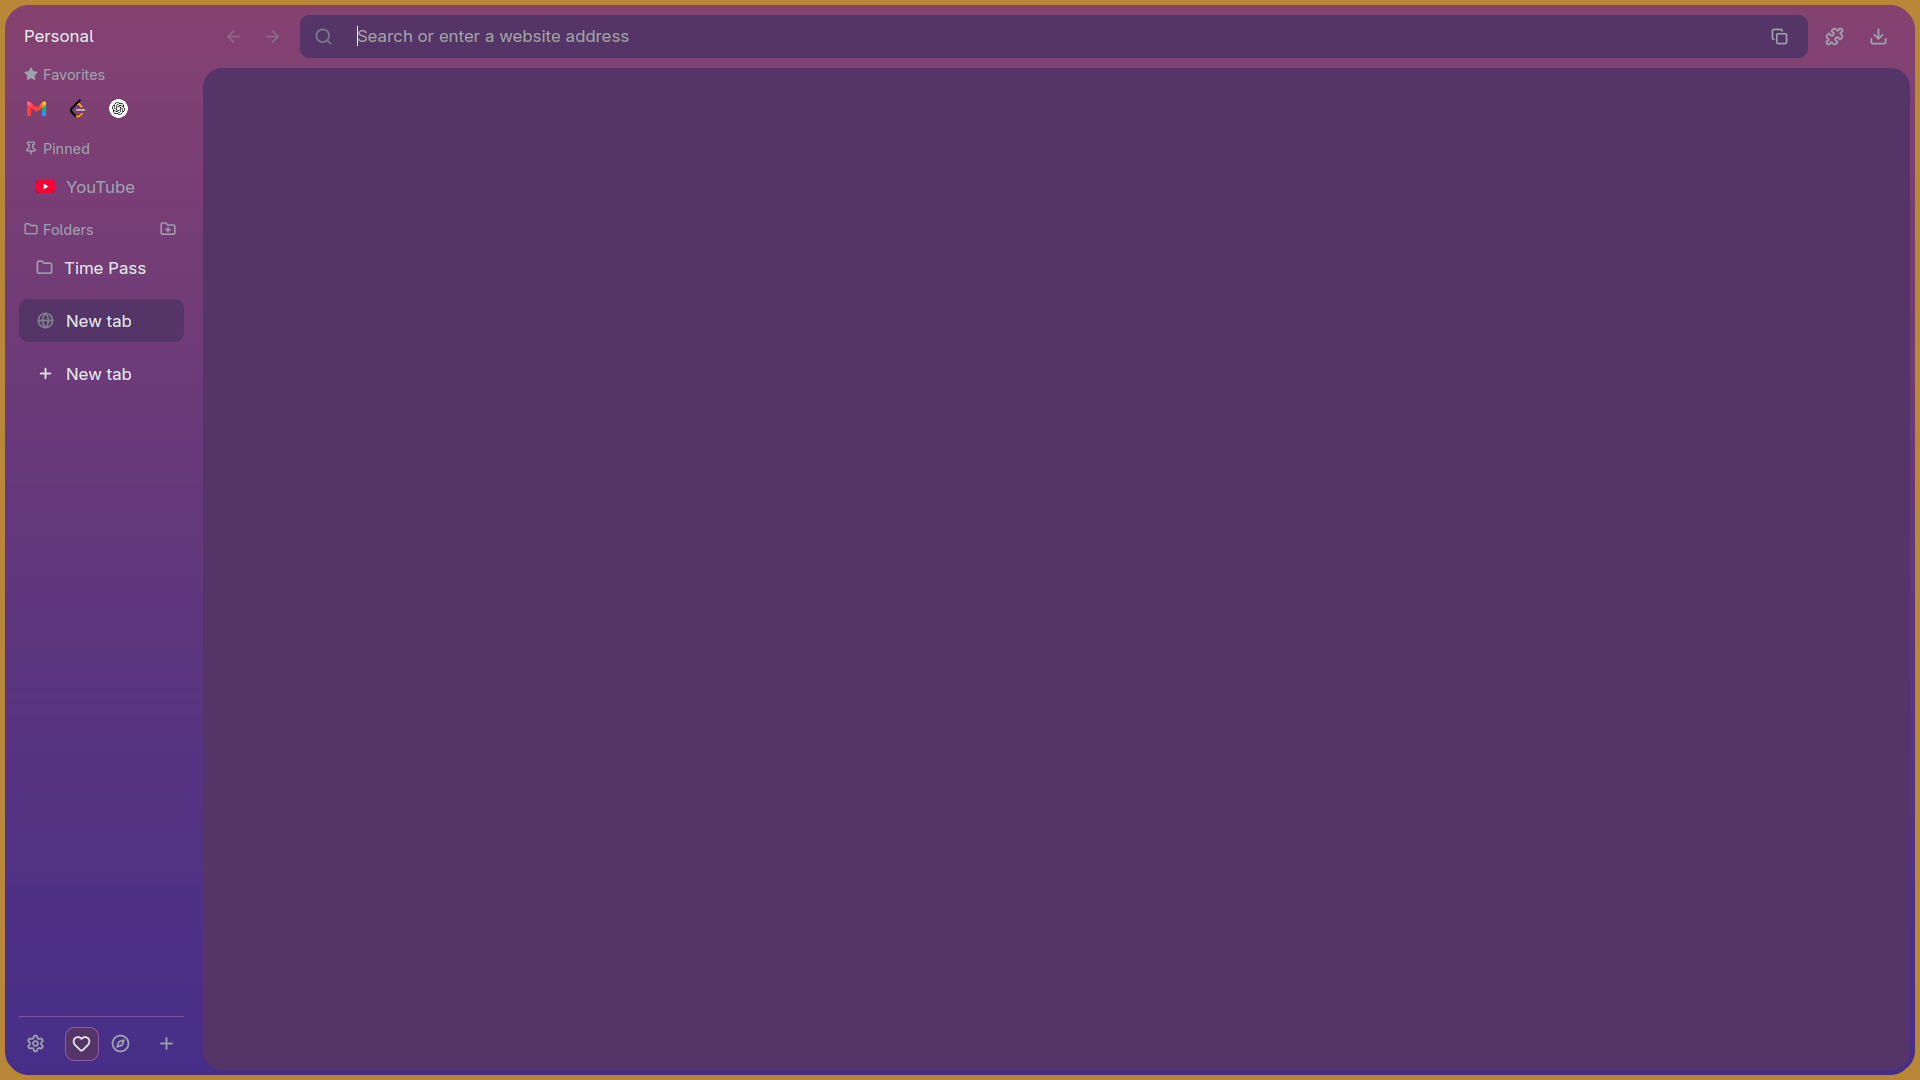
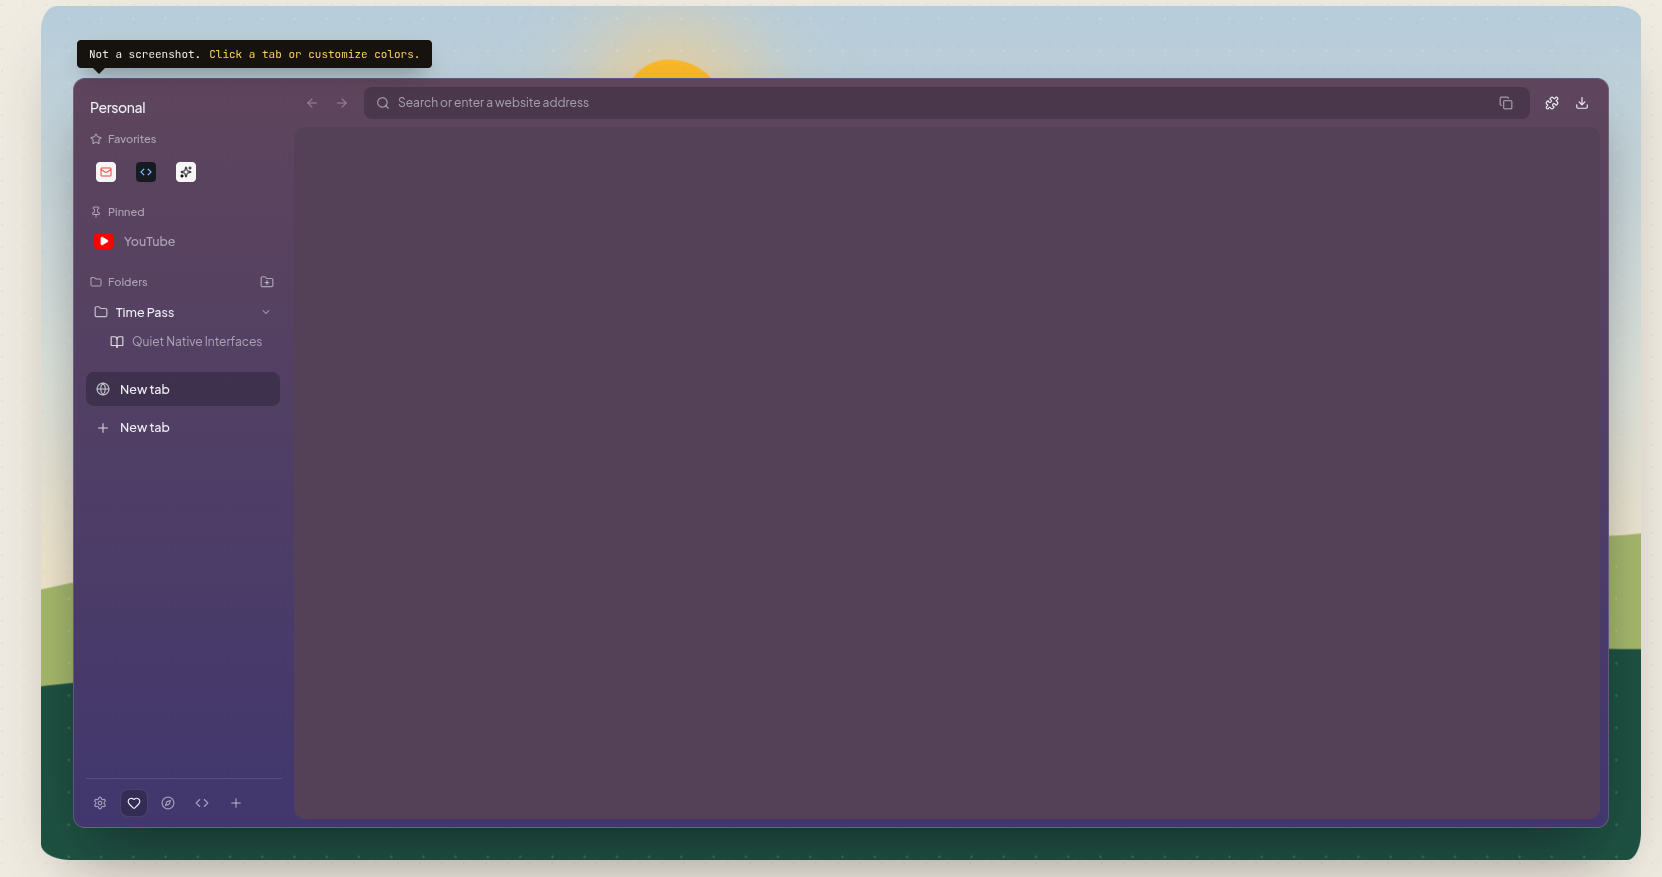
Use Anarc demo image in README

Changed region(s): [[0.0, 0.0, 1.0, 1.0]]

diff --git a/README.md b/README.md
@@ -2,7 +2,7 @@
 
 **Anarc is a keyboard-first browser for Linux.** Organize tabs into spaces, keep your go-to sites in the sidebar, and work across two pages in a split view. Anarc uses a native Rust interface built with GPUI Kit and renders web pages with Chromium Embedded Framework (CEF).
 
-![Anarc's Personal space with favorites, pinned tabs, folders, and the address bar](assets/anarc-screenshot.png)
+[![Anarc browser demo showing the Personal space and sidebar](assets/anarc-screenshot.png)](https://anarc.pages.dev/#workspace)
 
 ## Features
 
